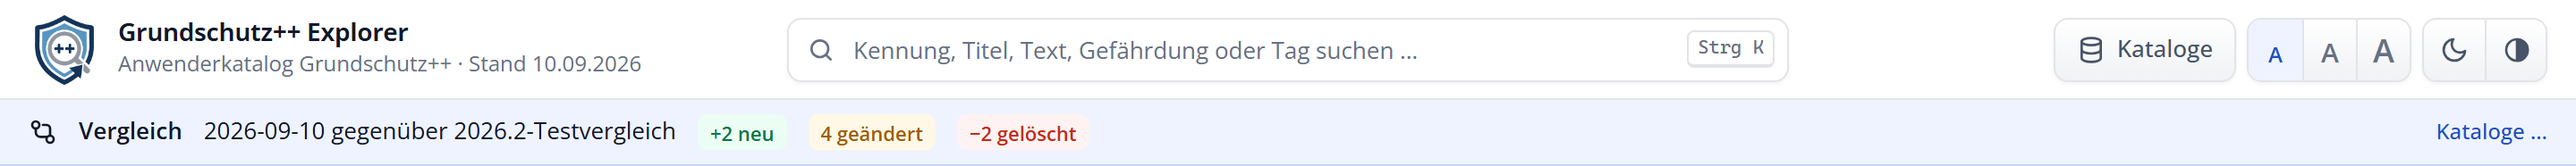
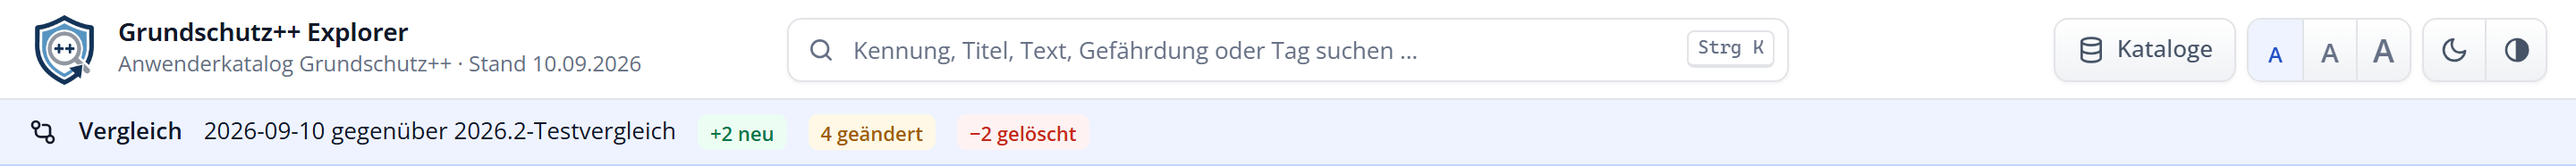
Update images and documentation for version 1.1.12

diff --git a/src/css/app.css b/src/css/app.css
@@ -395,7 +395,6 @@ ul { margin: 0; padding: 0; list-style: none; }
   background: var(--accent-soft); border-bottom: 1px solid var(--accent-border); color: var(--text);
 }
 .diff-banner strong { font-weight: 600; }
-.diff-banner .spacer { flex: 1; }
 
 /* ---------- Workspace ---------- */
 .workspace { flex: 1; display: flex; min-height: 0; }
@@ -676,9 +675,9 @@ ul { margin: 0; padding: 0; list-style: none; }
 .hits-menu { width: max-content; max-width: min(360px, 80vw); }
 .hits-menu button { overflow-wrap: anywhere; }
 
-/* Stern oben rechts im Kopfbereich, als Knopf wie in der Explorerleiste: leer = in keiner Liste, grau = in anderer Liste,
-   gelb = in der aktiven Liste */
-.star-btn.star-other svg { fill: var(--list-other); stroke: var(--list-other); }
+/* Stern oben rechts im Kopfbereich, als Knopf wie in der Explorerleiste: Umriss = in keiner Liste, gefüllt in der Farbe des
+   Umrisses = in anderer Liste, gelb = in der aktiven Liste */
+.star-btn.star-other svg { fill: currentColor; }
 .star-btn.star-here svg { fill: var(--star); stroke: var(--star-stroke); }
 .star-btn[aria-disabled="true"] { cursor: default; opacity: 0.8; }
 .star-btn:focus-visible { outline: 2px solid var(--accent); outline-offset: 1px; }

diff --git a/src/js/app.js b/src/js/app.js
@@ -69,7 +69,7 @@ const PROJECT_URL = 'https://www.grundschutz-explorer.de';
 // Handbuch: Weiterleitung auf die aktuelle PDF, vom Release-Schritt scripts/release/steps/80-redirect.py erzeugt
 const MANUAL_PATH = 'manual/';
 
-const APP_VERSION = '1.1.11';
+const APP_VERSION = '1.1.12';
 
 // Standardliste: nimmt Stern und Notizen auf, solange keine andere Liste aktiv ist (wird bei Bedarf angelegt)
 const DEFAULT_LIST_NAME = 'Merkliste';
@@ -3148,6 +3148,7 @@ const app = createApp({
           type: 'text',
           title: `Zielobjektkategorie · ${t}`,
           text: definition('targetObjects', t),
+          examples: entry?.Beispiel ? `Beispiele: ${entry.Beispiel}` : '',
           meta: [
             entry?.Kategorie ? `Kategorie: ${entry.Kategorie}` : '',
             targetObjectAncestors(t).length ? `Gehört zu: ${targetObjectAncestors(t).join(' ‹ ')}` : '',

diff --git a/src/index.html b/src/index.html
@@ -123,8 +123,6 @@
         <span class="tag diff-deleted">−{{ diffSummary.deletedCount }} gelöscht</span>
       </template>
       <span v-else>– keine Unterschiede</span>
-      <span class="spacer"></span>
-      <button class="link-btn" @click="openCatalogDialog()">Kataloge …</button>
     </div>
 
     <!-- ============ Workspace ============ -->
@@ -2488,6 +2486,7 @@
                       </template>
                       <template v-else>
                         <p v-if="activeHelpInfo.text">{{ activeHelpInfo.text }}</p>
+                        <p v-if="activeHelpInfo.examples" class="callout-meta">{{ activeHelpInfo.examples }}</p>
                         <p v-if="activeHelpInfo.meta" class="callout-meta">{{ activeHelpInfo.meta }}</p>
                       </template>
                     </div>

diff --git a/scripts/release/project/scenes.py b/scripts/release/project/scenes.py
@@ -562,6 +562,9 @@ def detail_aenderungen(env):
         _comparison_mode(s)
         s.set_viewport(VIEW_W, 1600)
         s.show_control("DEV.4.3", "diff")
+        # Kopfbereich eingeklappt: mehr Platz für die Änderungen
+        s.act("vm.detailHeadOpen = false")
+        s.wait(300)
         return _detail(s, s.bottom_of("document.querySelectorAll('.detail-body > .stack > .card')[1]") + 16)
 
 

diff --git a/docs/handbuch/07_daten_und_versionen.md b/docs/handbuch/07_daten_und_versionen.md
@@ -44,7 +44,7 @@ Vergleichsmodus
 
 Im Vergleichsmodus stehen zusätzliche Hilfen bereit:
 
-1. **Hinweisbalken:** nennt beide Stände und die Zahl der Änderungen: **neu** (grün) sind Anforderungen, die im angezeigten Stand hinzugekommen sind, **geändert** (gelb) solche mit geänderten Angaben, **gelöscht** (rot) solche, die im angezeigten Stand entfallen sind. Der Balken erscheint auch, wenn es keine Unterschiede gibt. **Kataloge …** öffnet den Dialog, um den Vergleich zu ändern oder zu beenden.
+1. **Hinweisbalken:** nennt beide Stände und die Zahl der Änderungen: **neu** (grün) sind Anforderungen, die im angezeigten Stand hinzugekommen sind, **geändert** (gelb) solche mit geänderten Angaben, **gelöscht** (rot) solche, die im angezeigten Stand entfallen sind. Der Balken erscheint auch, wenn es keine Unterschiede gibt. Ändern oder beenden lässt sich der Vergleich über **Kataloge** in der Kopfzeile.
 2. **Kennzeichnung in der Liste:** Betroffene Anforderungen tragen die Hinweise *Neu*, *Geändert* oder *Gelöscht*. Gelöschte Anforderungen bleiben sichtbar, damit Sie nachvollziehen können, was entfallen ist.
 3. **Filterbereich „Änderungen“:** Mit ihm grenzen Sie die Liste z. B. auf die geänderten Anforderungen ein.
 4. **Übersichten:** Katalog-, Praktik- und Themenübersicht nennen die Zahl der neuen, geänderten und gelöschten Anforderungen.
@@ -52,7 +52,7 @@ Im Vergleichsmodus stehen zusätzliche Hilfen bereit:
 
 ### Reiter „Änderungen“
 
-Unterscheiden sich die beiden Stände, zeigt die Detailansicht den Reiter **Änderungen**. Er nennt den Status der gewählten Anforderung (*Neu*, *Geändert*, *Gelöscht* oder *Unverändert*) und darunter die Unterschiede:
+Unterscheiden sich die beiden Stände, zeigt die Detailansicht den Reiter **Änderungen** mit den Unterschieden der gewählten Anforderung (in der Abbildung mit eingeklapptem Kopfbereich). Ist sie neu, gelöscht oder unverändert, nennt ein Feld **Status** dies zuerst:
 
 ![Reiter Änderungen mit Änderungsübersicht und Wortvergleich](bilder/detail-aenderungen.png){width=48%}
 

diff --git a/CHANGELOG.md b/CHANGELOG.md
@@ -2,18 +2,18 @@
 
 Alle nennenswerten Änderungen am Grundschutz++ Explorer.
 
-## [Unveröffentlicht]
+## [1.1.12] – 2026-10-01
 
 ### Neu
 
-- Kopfbereich der Detailansicht einklappbar, auch in den Übersichten: Der Pfeil oben rechts blendet Pfadleiste und Hinweise aus, der Schutzbedarf steht dann neben der Kennung.
+- Info-Symbol an Zielobjektkategorien zeigt jetzt auch Beispiele, etwa „Server, Router, Core-Switch, Firewall“ bei Hostsystemen.
+- Kopfbereich der Detailansicht kann zu einer kompakteren Ansicht eingeklappt werden
 
 ### Geändert
 
 - Stern der Detailansicht steht jetzt oben rechts neben dem Klapppfeil.
-- Schutzbedarf in der Detailansicht mit dem Begriff aus dem BSI-Namensraum, die Bezeichnung steht im Tooltip.
-- Reiter „Änderungen“ im Stil der Übersicht: Felder mit Beschriftung und Trennlinien, Textvergleich in einer Karte.
-- Reiter „Notizen“ im Stil der Übersicht: Überschrift nennt die aktive Liste, darunter das Notizfeld und bei mehreren Listen ein schneller Listenwechsel.
+- Zielobjektkategorien auf dem aktuellen Stand des BSI (u. a. „Archiv“, „Faxanwendungen“, „Mobile Endgeräte“).
+- Reiter „Änderungen“ und „Notizen“ layoutmäßig verbessert
 
 ## [1.1.11] – 2026-09-30
 

diff --git a/docs/handbuch/05_detailansicht.md b/docs/handbuch/05_detailansicht.md
@@ -36,7 +36,7 @@ Darunter bündelt der Reiter **Übersicht** alle Angaben für die Umsetzung, von
 
 ## Definitionen nachschlagen und Begriffe filtern
 
-Neben vielen Angaben steht ein blaues **Info-Symbol**. Ein Klick darauf blendet am unteren Rand der Detailansicht eine Erläuterung mit der Definition des BSI ein. Ein zweiter Klick auf das Info-Symbol, das Kreuz oder **Esc** schließt die Erläuterung.
+Neben vielen Angaben steht ein blaues **Info-Symbol**. Ein Klick darauf blendet am unteren Rand der Detailansicht eine Erläuterung mit der Definition des BSI ein. Bei Zielobjektkategorien nennt sie zusätzlich Beispiele, Kategorie und übergeordnete Kategorien. Ein zweiter Klick auf das Info-Symbol, das Kreuz oder **Esc** schließt die Erläuterung.
 
 Gestrichelt unterstrichene Angaben setzen Sie mit einem Klick als Filter, ein weiterer Klick hebt ihn wieder auf (siehe [Kapitel „Suchen und filtern“](#kap-suchen-filtern)).
 
